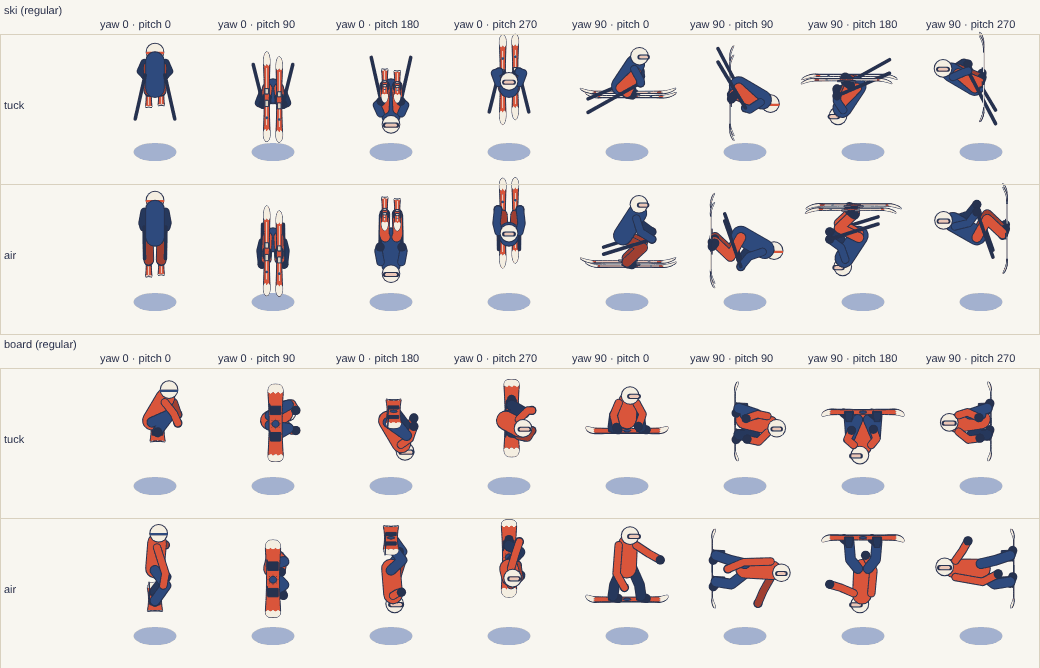
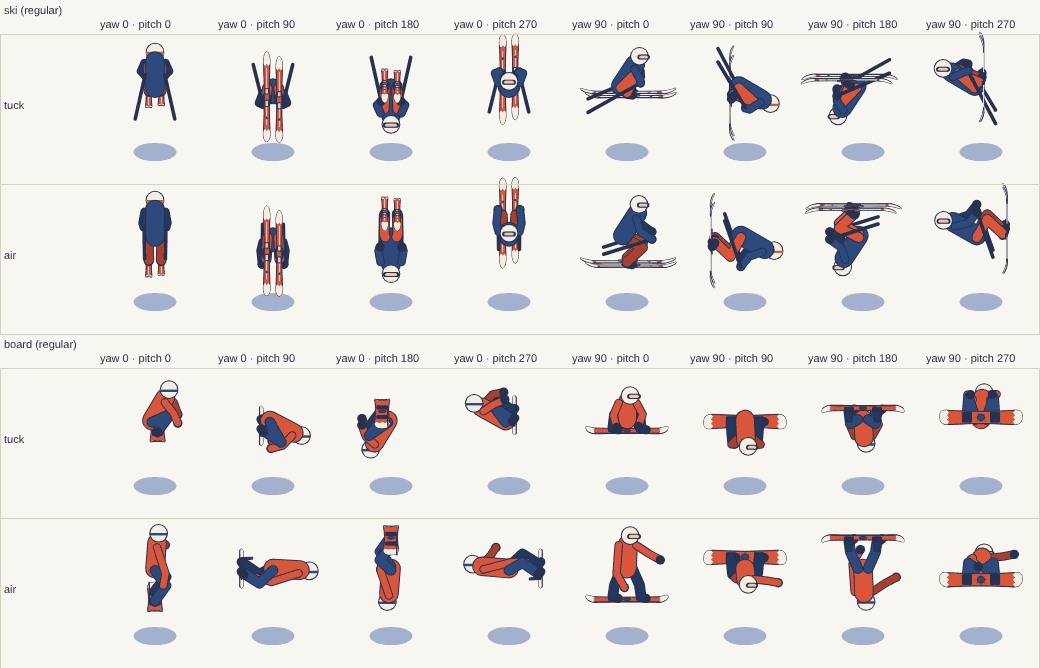
Flip a snowboarder about the board's long axis
Owner decision: a rider flips about their own left-right axis, like a
somersault. A skier faces along rider-space z, so that is x (unchanged). A
snowboarder stands sideways facing +x, so their flip axis is the board's long
axis (z): + rolls toward the toe edge and chest, - toward the heels. Goofy
riders face +x too, so the sign is the same. Calls without bodyPitchDeg are
unchanged. Docs, tests and the body-pitch contact sheet follow.

Claude-Session: https://claude.ai/code/session_01BbjfAuFNUXiH9GHWZfAtrj

diff --git a/art/gresca-hanga-spec.js b/art/gresca-hanga-spec.js
@@ -2206,7 +2206,7 @@ var HANGA = {
   "rotations": {
    "units": "degrees",
    "sign": "Yaw-type angles (twistDeg, headYawDeg) are clockwise seen from above, the same sense as compass headings and as projectRider's yaw: + turns toward the rider's right (+x in rider space).",
-   "order": "projectRider builds the pose joints (with the goofy mirror), then turns the lower body by twist about the vertical axis through the rider-space origin, turns the head and face vector by head yaw about the vertical axis through the neck, then pitches the whole rider by bodyPitch about the across axis (x) through hipC. After that comes the v1.3 projection: pose roll plus rollExtra, lift, yaw, camera pitch.",
+   "order": "projectRider builds the pose joints (with the goofy mirror), then turns the lower body by twist about the vertical axis through the rider-space origin, turns the head and face vector by head yaw about the vertical axis through the neck, then flips the whole rider by bodyPitch about the rider's own left-right axis through hipC (bodyPitch.axis). After that comes the v1.3 projection: pose roll plus rollExtra, lift, yaw, camera pitch.",
    "twist": {
     "lower": {
      "ski": [
@@ -2259,8 +2259,12 @@ var HANGA = {
     "note": "F7: riding ski switch, look 80 to 100 deg over the downhill-side shoulder (+ for the right shoulder)."
    },
    "bodyPitch": {
-    "pivot": "The across axis (rider-space x) through the posed hipC.",
-    "meaning": "Flip rotation of the whole rider, equipment included. + is a front flip (the head goes toward rider-space +z, the heading), - a backflip. For the board, x is across the board, so this is a nose-over-tail flip; a flip about the board's long axis is roll (rollExtra).",
+    "pivot": "The rider's own left-right axis through the posed hipC, as in a somersault (axis).",
+    "axis": {
+     "ski": "x",
+     "board": "z"
+    },
+    "meaning": "Flip rotation of the whole rider, equipment included. + is a front flip (chest and face first), - a backflip (back first). Skis: about rider-space x, the head goes toward +z (the heading). Board: the rider stands sideways, so the axis is the board's long axis (rider-space z) and the head goes toward +x, the toe edge and chest. Goofy riders also face +x, so the sign is the same in both stances.",
     "wrap": "Taken modulo 360, so 360 draws exactly like 0.",
   "equipInFront": {
    "fromDeg": 45,
@@ -5878,6 +5882,17 @@ function turnAbout(p, deg, px, pz) {
   return [px + x * c + z * s, p[1], pz - x * s + z * c];
 }
 
+/* Board flips: rolls p about the board's long axis (z) through (px, py) by deg; + moves points above the pivot toward
+   +x (the toe edge and chest). New array. */
+function rollAbout(p, deg, px, py) {
+  const a = deg * D2R;
+  const c = Math.cos(a);
+  const s = Math.sin(a);
+  const x = p[0] - px;
+  const y = p[1] - py;
+  return [px + x * c + y * s, py - x * s + y * c, p[2]];
+}
+
 /* Pitches p about the across axis (x) through (py, pz) by deg; + moves points above the pivot toward +z. New array. */
 function pitchAbout(p, deg, py, pz) {
   const a = deg * D2R;
@@ -5904,7 +5919,8 @@ function riderRotations(J, stance, rig, twistDeg, headYawDeg, bodyPitchDeg) {
     let q = p;
     if (group === 'lower' && twist !== 0) q = turnAbout(q, twist, 0, 0);
     if (group === 'head' && headYaw !== 0) q = turnAbout(q, headYaw, neck[0], neck[2]);
-    if (pitch !== 0) q = pitchAbout(q, pitch, hip[1], hip[2]);
+    if (pitch !== 0 && rig === 'board') q = rollAbout(q, pitch, hip[0], hip[1]);
+    else if (pitch !== 0) q = pitchAbout(q, pitch, hip[1], hip[2]);
     return q;
   };
 }
@@ -5940,7 +5956,8 @@ function optionOr(options, key, fallback) {
  *   twistDeg        lower body and equipment turned relative to the upper body, + clockwise from above; replaces
  *                   the pose's twistDeg. With a twist, yaw is the upper body's heading
  *   headYawDeg      head (and face vector, so the goggles) turned relative to the shoulders; replaces the pose's
- *   bodyPitchDeg    flip angle about the rider's across axis through hipC, + = front flip; modulo 360
+ *   bodyPitchDeg    flip angle about the rider's own left-right axis through hipC (skis: x; board: the board's
+ *                   long axis z), + = front flip (chest first); modulo 360
  * }
  * Without options (or with zero angles and cameraPitchDeg = pitch) the result is exactly the v1.3 one.
  * Returns the draw list, back to front. pts are screen metres with +y up and the origin at the feet's ground point.

diff --git a/test/hanga-v14.test.js b/test/hanga-v14.test.js
@@ -252,19 +252,32 @@ test('body pitch flips the whole rider', async (t) => {
       }
     });
   }
-  await t.test('+ is a front flip: at 90 the head goes toward the heading (away from a chase camera)', () => {
-    for (const rig of RIGS) {
-      const head = byId(project(rig, 'air', 0, 'regular', { bodyPitchDeg: 90 }), 'head');
-      const torso = byId(project(rig, 'air', 0, 'regular'), 'torso');
-      assert.ok(head.depth > torso.depth + 0.4, `${rig}: the head is farther from the camera`);
+  await t.test('ski: + is a front flip, at 90 the head goes toward the heading (away from a chase camera)', () => {
+    const head = byId(project('ski', 'air', 0, 'regular', { bodyPitchDeg: 90 }), 'head');
+    const torso = byId(project('ski', 'air', 0, 'regular'), 'torso');
+    assert.ok(head.depth > torso.depth + 0.4, 'the head is farther from the camera');
+  });
+  await t.test('board: flips about the board\'s long axis, + toward the toe edge, in both stances', () => {
+    // Yaw 90 turns the toe side (+x) toward the camera; the board's long axis then runs across the screen.
+    for (const stance of STANCES) {
+      const flipped = project('board', 'air', 90, stance, { bodyPitchDeg: 90 });
+      const upright = project('board', 'air', 90, stance);
+      assert.ok(byId(flipped, 'head').depth < byId(upright, 'torso').depth - 0.4, `${stance}: head toward the toe side`);
+      const back = project('board', 'air', 90, stance, { bodyPitchDeg: -90 });
+      assert.ok(byId(back, 'head').depth > byId(upright, 'torso').depth + 0.4, `${stance}: backflip toward the heels`);
+      // The nose and tail stay where they were along the board's long axis (screen x at yaw 90).
+      const ends = (list) => byId(list, 'board').shapes[1].pts.map((p) => p[0]);
+      const span = (xs) => Math.max(...xs) - Math.min(...xs);
+      close(span(ends(flipped)), span(ends(upright)), `${stance}: board length on screen unchanged`);
     }
   });
   await t.test('the shadow does not pitch', () => {
     assert.deepEqual(project('ski', 'tuck', 30, 'regular', { bodyPitchDeg: 123 })[0], project('ski', 'tuck', 30, 'regular')[0]);
   });
   await t.test('mid-flip, equipment nearer the camera than the torso is drawn over the body', () => {
-    for (const rig of RIGS) {
-      const list = project(rig, 'tuck', 0, 'regular', { bodyPitchDeg: 90 });
+    // Skis seen from behind in a front flip; a board seen from its toe side in a backflip: the feet come toward the camera.
+    for (const [rig, yaw, bodyPitchDeg] of [['ski', 0, 90], ['board', 90, -90]]) {
+      const list = project(rig, 'tuck', yaw, 'regular', { bodyPitchDeg });
       assert.equal(list[list.length - 1].kind, 'equip', `${rig}: equipment last`);
       assert.ok(list.every((it) => numbers(it).every(Number.isFinite)));
     }

diff --git a/docs/art/HANGA-v1.4.md b/docs/art/HANGA-v1.4.md
@@ -14,7 +14,7 @@ it is now out of date and must be copied again from the repo before anyone desig
 | **F5** braking turns the equipment, not the rider | There was no way to turn the skis or board without turning the whole body. | `options.twistDeg` turns the lower body and equipment relative to the upper body. New brake poses: ski `brakeL` / `brakeR` (hockey stop) and board `brakeHeel` / `brakeToe` (skid stops). |
 | **F6** natural movement | Edge-driven lean and unweighting belong in RiderAnim. | No new pose. `rider.rotations.lean` sets out the conventions for twist, lean and unweighting that RiderAnim should follow. |
 | **F7** ski fakie | The face vector was fixed, so the head could not look over a shoulder. | `options.headYawDeg` turns the head **and the face vector**, so the goggles move with it. New poses `switchL` / `switchR`: shoulders open 35°, head 90° over that shoulder, weight on the tails. |
-| **F3** flips | There was no tuck and no way to pitch the rider. | `options.bodyPitchDeg` pitches the whole rider about its across axis. New `tuck` pose for both rigs (knees to the chest, hands on the shins). |
+| **F3** flips | There was no tuck and no way to pitch the rider. | `options.bodyPitchDeg` flips the whole rider about its own left–right axis (owner decision: skis about x, the board about its long axis). New `tuck` pose for both rigs (knees to the chest, hands on the shins). |
 
 ## API
 
@@ -31,7 +31,7 @@ not given. The data is in `HANGA.rider.rotations`.
 | `cameraPitchDeg` | How far the camera looks down at the rider below the horizontal, + = down. Pass the pitch the terrain is drawn with this frame, slope tilt included. Replaces the positional `pitch`. | `pitch`, or else `camera.chasePitchDeg` (20) |
 | `twistDeg` | How far the lower body and equipment are turned relative to the upper body. + is clockwise seen from above (toward the rider's right). Pivot: the vertical axis through the feet's ground point. With a twist, `yaw` is the heading of the upper body and the equipment heading is `yaw + twist`. | the pose's `twistDeg`, or else 0 |
 | `headYawDeg` | How far the head is turned relative to the shoulders, with the same sign as twist. Pivot: the vertical axis through the neck. The face vector turns too, so the goggles or strap follow it. | the pose's `headYawDeg`, or else 0 |
-| `bodyPitchDeg` | Flip angle about the rider-space across axis (x) through `hipC`. + is a front flip (the head moves toward the heading), − a backflip. Taken modulo 360. Equipment is included; the shadow is not. | 0 |
+| `bodyPitchDeg` | Flip angle about the rider's own left–right axis through `hipC`, as in a somersault. + is a front flip (chest and face first), − a backflip. Skis: rider-space x, so the head moves toward the heading. Board: the rider stands sideways, so the axis is the board's long axis (rider-space z) and + rolls toward the toe edge. Taken modulo 360. Equipment is included; the shadow is not. | 0 |
 
 - **Options replace pose values; they do not add to them.** A brake or switch pose has its own twist and head yaw
   for when nothing else gives one. When the game gives its own values (for example the twist the simulation
@@ -40,8 +40,8 @@ not given. The data is in `HANGA.rider.rotations`.
   board it is the ankles, knees, `hipF`/`hipB`, `tail` and `nose`. `hipC`, the torso, arms, gloves, poles and head stay
   with the upper body.
 - **Goofy:** twist and head yaw are given in the regular-stance frame and mirrored with the joints, so a value means the
-  same thing relative to the board's nose in either stance. Body pitch is applied after the mirror, so + is always a
-  front flip toward the heading.
+  same thing relative to the board's nose in either stance. Body pitch is applied after the mirror; a goofy rider also
+  faces +x, so + is a front flip (toward the toe edge on a board) in both stances.
 - **Order:** pose joints (with the goofy mirror), then twist, then head yaw, then body pitch, then the v1.3 projection
   (roll + rollExtra, lift, yaw, camera pitch). Equipment shape offsets (v across, h up) are added before twist and
   pitch, so skis and the board keep their shape when they turn or flip.
